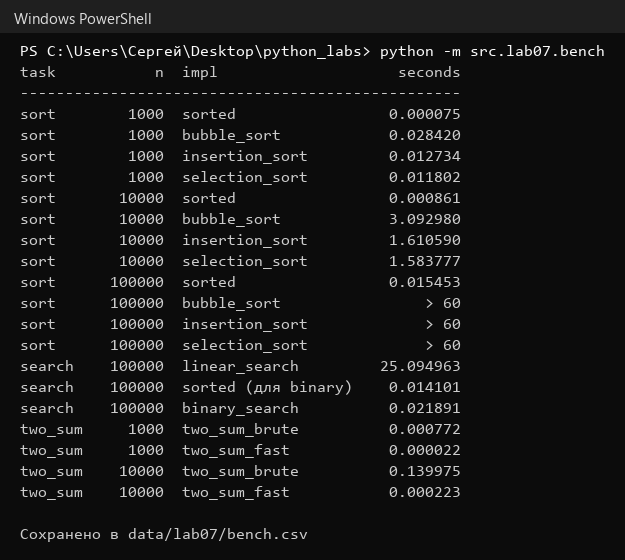
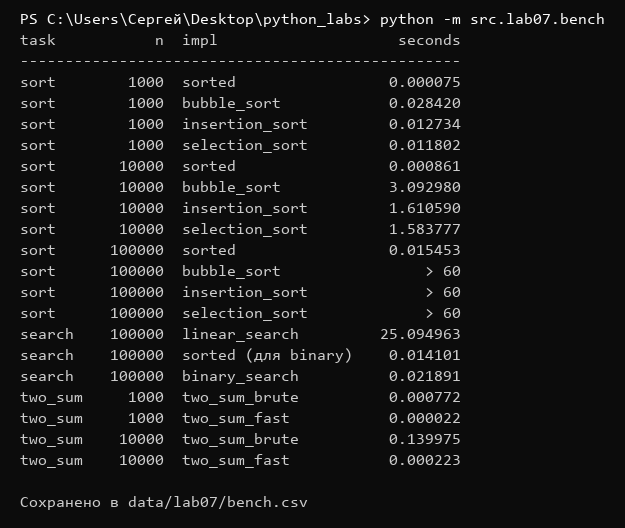
dz

diff --git a/src/lab07/README.md b/src/lab07/README.md
@@ -299,29 +299,31 @@ check.py прошел все проверки.
 
 <img src="../../images/lab07/img03.png">
 
-Таблица бенчмарка (data/lab07/bench.csv):
+Вывод бенчмарка:
 
-| task | n | impl | seconds |
-|---|---|---|---|
-| sort | 1000 | sorted | 0.000075 |
-| sort | 1000 | bubble_sort | 0.028420 |
-| sort | 1000 | insertion_sort | 0.012734 |
-| sort | 1000 | selection_sort | 0.011802 |
-| sort | 10000 | sorted | 0.000861 |
-| sort | 10000 | bubble_sort | 3.092980 |
-| sort | 10000 | insertion_sort | 1.610590 |
-| sort | 10000 | selection_sort | 1.583777 |
-| sort | 100000 | sorted | 0.015453 |
-| sort | 100000 | bubble_sort | > 60 |
-| sort | 100000 | insertion_sort | > 60 |
-| sort | 100000 | selection_sort | > 60 |
-| search | 100000 | linear_search | 25.094963 |
-| search | 100000 | sorted (для binary) | 0.014101 |
-| search | 100000 | binary_search | 0.021891 |
-| two_sum | 1000 | two_sum_brute | 0.000772 |
-| two_sum | 1000 | two_sum_fast | 0.000022 |
-| two_sum | 10000 | two_sum_brute | 0.139975 |
-| two_sum | 10000 | two_sum_fast | 0.000223 |
+```
+task           n  impl                    seconds
+-------------------------------------------------
+sort        1000  sorted                 0.000075
+sort        1000  bubble_sort            0.028420
+sort        1000  insertion_sort         0.012734
+sort        1000  selection_sort         0.011802
+sort       10000  sorted                 0.000861
+sort       10000  bubble_sort            3.092980
+sort       10000  insertion_sort         1.610590
+sort       10000  selection_sort         1.583777
+sort      100000  sorted                 0.015453
+sort      100000  bubble_sort                > 60
+sort      100000  insertion_sort             > 60
+sort      100000  selection_sort             > 60
+search    100000  linear_search         25.094963
+search    100000  sorted (для binary)    0.014101
+search    100000  binary_search          0.021891
+two_sum     1000  two_sum_brute          0.000772
+two_sum     1000  two_sum_fast           0.000022
+two_sum    10000  two_sum_brute          0.139975
+two_sum    10000  two_sum_fast           0.000223
+```
 
 
 Выводы:
